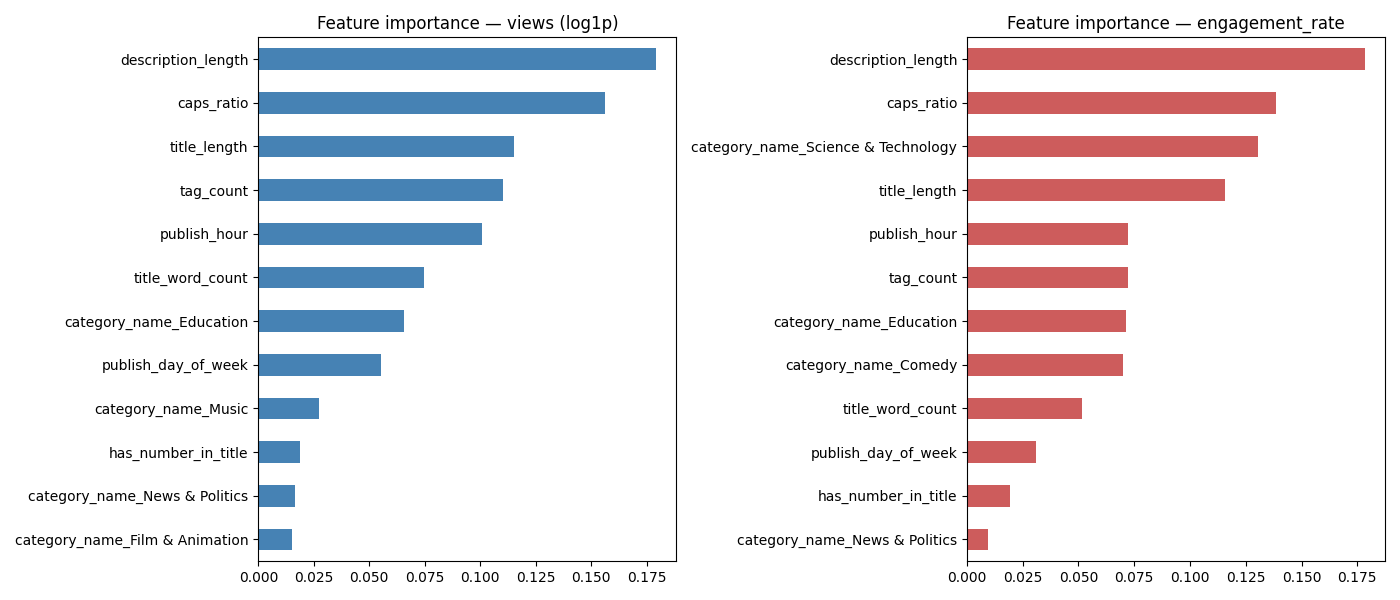
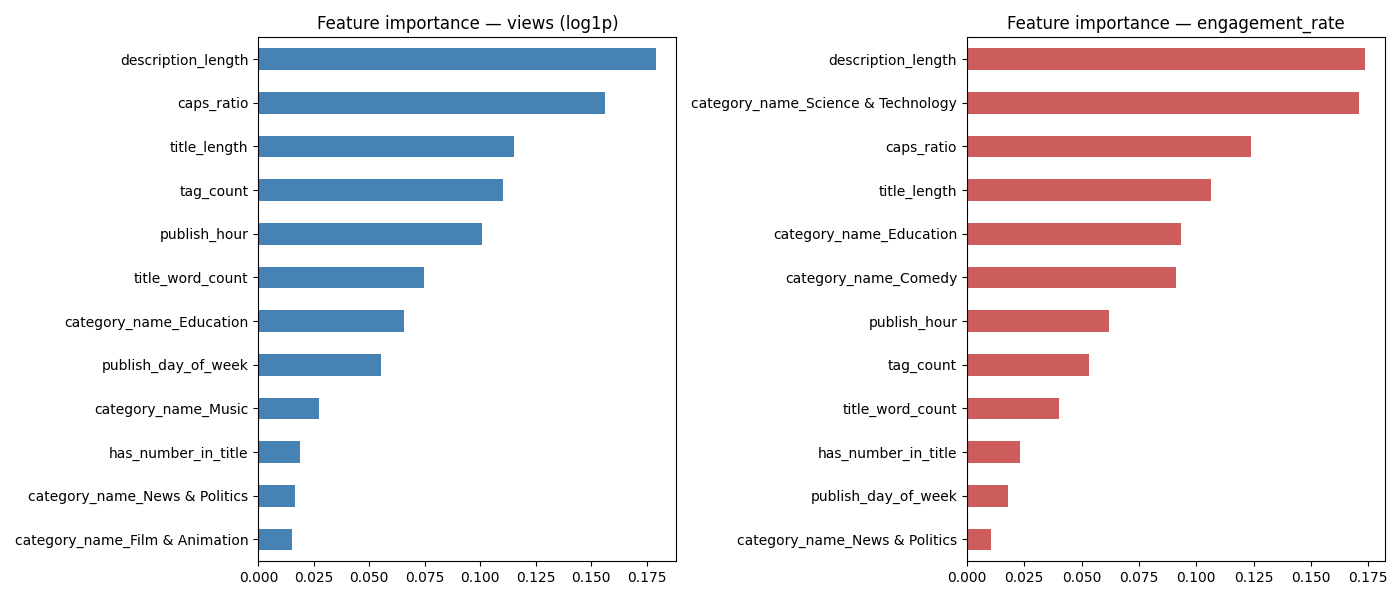
Constrain Random Forest depth to fix model bloat
The unconstrained RF was memorizing training noise: 220MB+ per saved
model. Added max_depth=15, min_samples_leaf=5 to the random_forest
factory in src/train.py and re-ran the 5-fold CV comparison for both
targets, keeping a retrained model only if its test R2 stayed within
~0.02 of the original:

- engagement_rate: test R2 0.6165 -> 0.6124 (diff 0.0041, within
  tolerance) -- adopted. 231MB -> 17MB.
- views: test R2 0.4039 -> 0.3782 (diff 0.0257, outside tolerance)
  -- reverted to the original unconstrained model (232MB) pending a
  decision on whether to accept the drop or retune (e.g. deeper trees
  just for this target).

reports/feature_importance.png and reports/insights.md regenerated
to match the updated engagement_rate model.

diff --git a/src/train.py b/src/train.py
@@ -79,7 +79,11 @@ def cross_validate(model_factory, X: pd.DataFrame, y: pd.Series) -> dict:
 def run_main_model(X: pd.DataFrame, y: pd.Series, target_name: str) -> dict:
     factories = {
         "random_forest": lambda: RandomForestRegressor(
-            n_estimators=200, random_state=RANDOM_STATE, n_jobs=-1
+            n_estimators=200,
+            max_depth=15,
+            min_samples_leaf=5,
+            random_state=RANDOM_STATE,
+            n_jobs=-1,
         ),
         "xgboost": lambda: XGBRegressor(
             n_estimators=200, random_state=RANDOM_STATE, n_jobs=-1

diff --git a/reports/insights.md b/reports/insights.md
@@ -4,10 +4,10 @@ Derived from a Random Forest model trained on pre-publish metadata for India-tre
 
 1. **What predicts views most**: the strongest pre-publish signals are `description_length`, `caps_ratio`, and `title_length`. Metadata effort (how much a creator writes and how a title is styled) outweighs category or timing here — title wording and description quality aren't cosmetic, they're the biggest levers a creator directly controls.
 
-2. **What predicts engagement (likes+comments per view) most**: `description_length`, `caps_ratio`, and `category_name_Science & Technology` dominate. Views and engagement are driven by partly different factors, so optimizing for one doesn't automatically help the other.
+2. **What predicts engagement (likes+comments per view) most**: `description_length`, `category_name_Science & Technology`, and `caps_ratio` dominate. Views and engagement are driven by partly different factors, so optimizing for one doesn't automatically help the other.
 
 3. **Category still matters, among categories with enough data to trust**: `Shows` has the highest median views (~621,739) among categories with at least 30 videos in this dataset (n=121). Categories with only a handful of trending videos (e.g. Movies, n=2) were excluded from this comparison — their medians aren't reliable.
 
 4. **Timing has a real, if modest, effect**: among publish-day/hour combinations with at least 30 videos (n=38 for the winner), the best-performing slot in this data is **Saturday at 1:00 IST** (median views ~459,179). Tag count correlates positively with views (r=0.05), and description length correlates positively with views (r=0.10) — both are cheap, low-effort levers worth using consistently rather than skipping.
 
-5. **Take the model's confidence with a grain of salt**: on held-out data, the model explains about 40% of the variance in log-views and 62% of the variance in engagement rate. That means pre-publish metadata alone is a meaningful but incomplete predictor — channel reputation, thumbnail quality, and algorithmic promotion (none of which are in this dataset) almost certainly explain a large share of what's left.
+5. **Take the model's confidence with a grain of salt**: on held-out data, the model explains about 40% of the variance in log-views and 61% of the variance in engagement rate. That means pre-publish metadata alone is a meaningful but incomplete predictor — channel reputation, thumbnail quality, and algorithmic promotion (none of which are in this dataset) almost certainly explain a large share of what's left.
